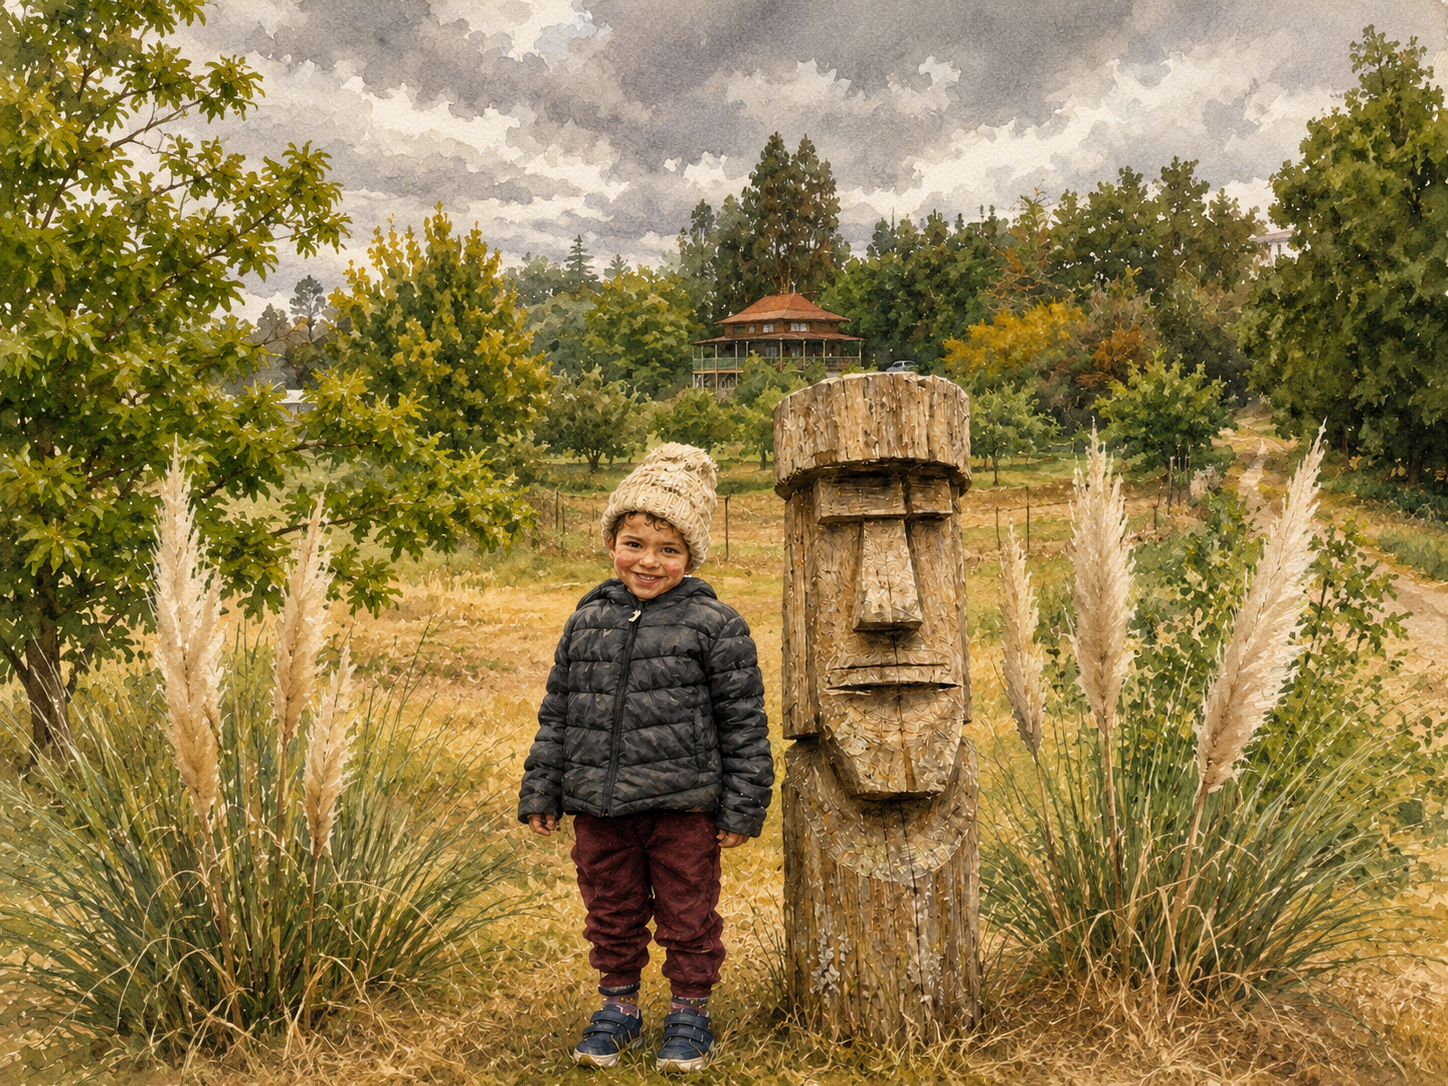
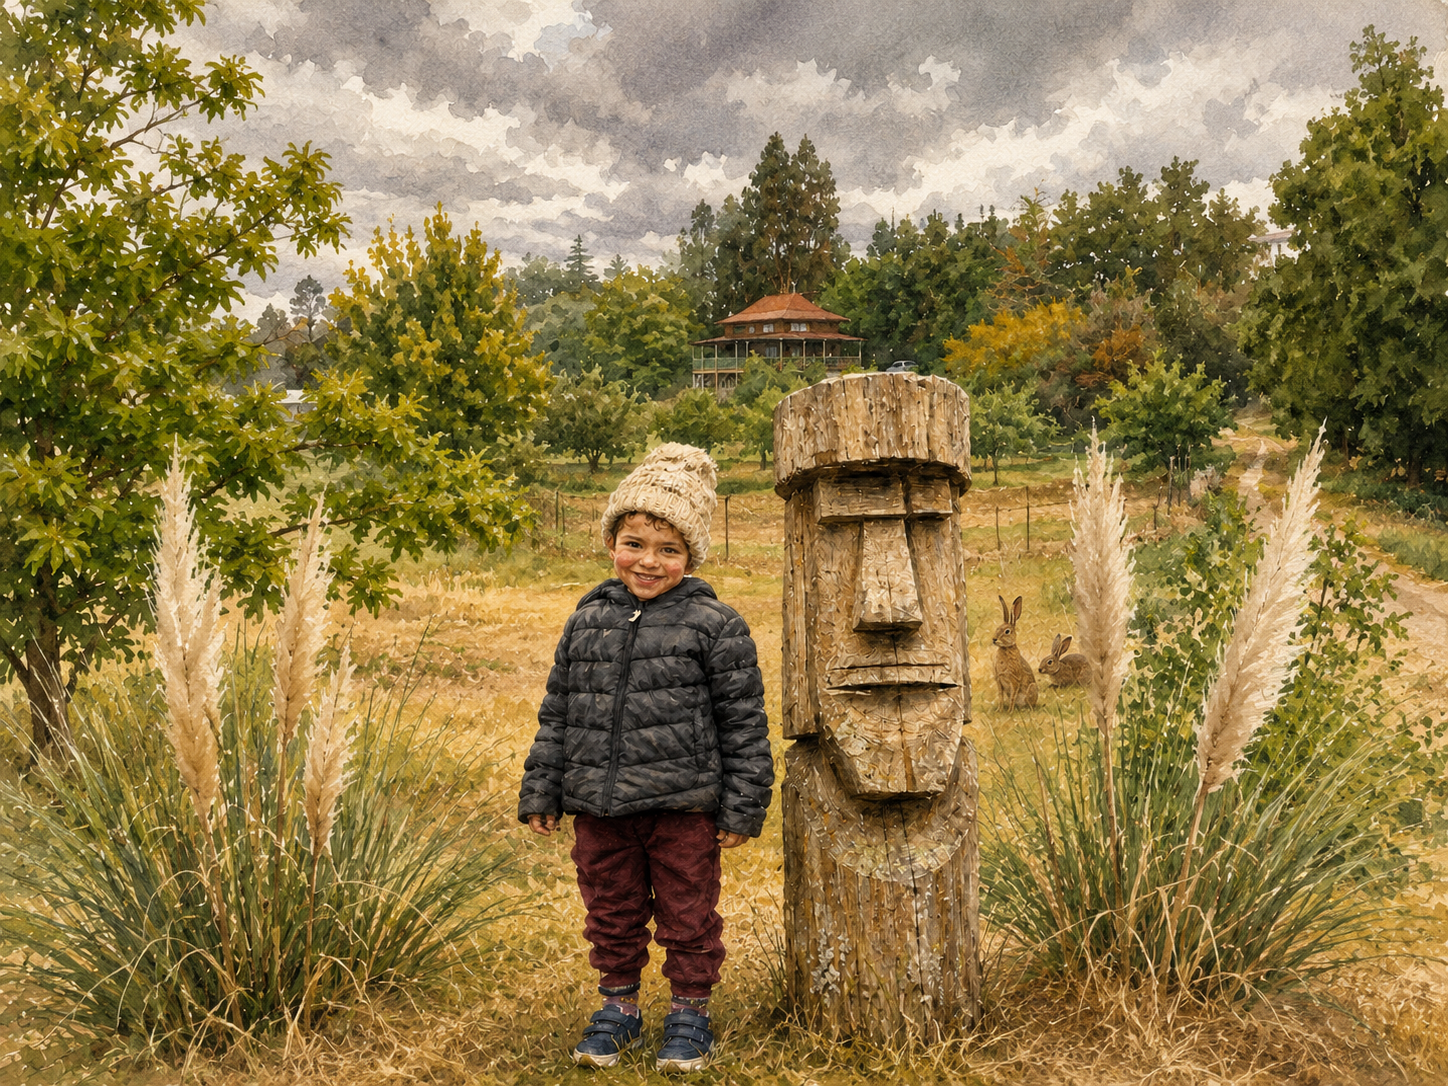
El Recodo: animalitos escondidos en cinco spreads
Extiende al resto del libro la capa que ya existia en el spread del rio,
donde hay un sapito sobre las piedras que solo se ve si uno presta atencion.

  moai                -> dos liebres en el pastizal, mirando a Kuchulu
  bienvenida_terraza  -> una lagartija tomando sol en el entablado
  caminando_campo     -> una codorniz con su hilera de pollitos, a contraluz
  juntando_ramas      -> un quiltro sentado mirandolos trabajar
  kuchulu_corre       -> un gatito junto a la piedra, siguiendo la corrida

Los cinco son fauna real de El Recodo, ya registrada en el proyecto. Ninguno
se nombra en el texto: son una capa visual silenciosa. Solo cambian los alt.

Las laminas se editaron de forma estrictamente local: fuera de la zona del
animal la diferencia con la version anterior es de 0 a 1 sobre 255.

Changed region(s): [[0.6837, 0.4862, 0.7769, 0.6989]]

diff --git a/kuchulu/index.html b/kuchulu/index.html
@@ -289,7 +289,7 @@
 <div class="page spread">
   <div class="spread-inner">
     <div class="spread-img-wrap">
-      <img class="spread-img" src="ilustraciones/10_moai.png" alt="Kuchulu junto al moai de la entrada" loading="eager">
+      <img class="spread-img" src="ilustraciones/10_moai.png" alt="Kuchulu junto al moai de la entrada; dos liebres lo miran desde el pastizal" loading="eager">
     </div>
     <div class="spread-text-box">
       <div class="spread-text">
@@ -308,7 +308,7 @@
 <div class="page spread">
   <div class="spread-inner">
     <div class="spread-img-wrap">
-      <img class="spread-img" src="ilustraciones/15_bienvenida_terraza.png" alt="Masbaba y Mastana reciben a Kuchulu en la terraza, lo abrazan" loading="eager">
+      <img class="spread-img" src="ilustraciones/15_bienvenida_terraza.png" alt="Masbaba y Mastana reciben a Kuchulu en la terraza, lo abrazan; una lagartija toma sol en el entablado" loading="eager">
     </div>
     <div class="spread-text-box">
       <div class="spread-text">
@@ -329,7 +329,7 @@
 <div class="page spread">
   <div class="spread-inner">
     <div class="spread-img-wrap">
-      <img class="spread-img" src="ilustraciones/16_caminando_campo.png" alt="Masbaba y Kuchulu caminan de la mano hacia el campo, vista de la parcela" loading="eager">
+      <img class="spread-img" src="ilustraciones/16_caminando_campo.png" alt="Masbaba y Kuchulu caminan de la mano hacia el campo entre la niebla; una codorniz cruza la huella con su hilera de pollitos" loading="eager">
     </div>
     <div class="spread-text-box">
       <div class="spread-text">
@@ -346,7 +346,7 @@
 <div class="page spread">
   <div class="spread-inner">
     <div class="spread-img-wrap">
-      <img class="spread-img" src="ilustraciones/09_juntando_ramas.png" alt="Masbaba y Kuchulu juntando ramas en el patio" loading="eager">
+      <img class="spread-img" src="ilustraciones/09_juntando_ramas.png" alt="Masbaba y Kuchulu juntando ramas en el patio; un perro sentado los mira trabajar" loading="eager">
     </div>
     <div class="spread-text-box">
       <div class="spread-text">
@@ -401,7 +401,7 @@
 <div class="page spread">
   <div class="spread-inner">
     <div class="spread-img-wrap">
-      <img class="spread-img" src="ilustraciones/17_kuchulu_corre.png" alt="Kuchulu corre por el camino hacia Mastana; la casa grande y la sala del lavashak al fondo" loading="eager">
+      <img class="spread-img" src="ilustraciones/17_kuchulu_corre.png" alt="Kuchulu corre por el camino hacia Mastana; un gatito lo mira desde el pasto, junto a la piedra" loading="eager">
     </div>
     <div class="spread-text-box">
       <div class="spread-text">
